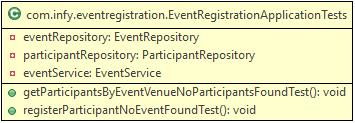
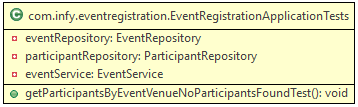
Updated code

diff --git a/QP/index.html b/QP/index.html
@@ -185,7 +185,7 @@
 			<strong>Project Structure provided:</strong>
 			<br><br>
 			<div>
-				<img class="center" style="width:647px; height:623px" src="./img/ArtefactTable.png">
+				<img class="center" style="width:647px; height:594px" src="./img/ArtifactTable.png">
 			</div>
 			<br><br>
 			<ol>
@@ -492,19 +492,6 @@
 											If it is provided, it should consist of only one word with letters of the English alphabet. If invalid, set <strong>Participant name should have only one word with only letters</strong> as the validation message
 										</li>
 										<li>
-											<strong>emailId:</strong><br>
-											If emailId is not provided then set <strong>Participant E-Mail ID is mandatory</strong> as the validation message<br>
-											If it is provided, it should start with alphanumeric characters and end with <strong>@infy.com</strong>. If invalid, set <strong>Participant E-Mail ID should start with alphanumeric characters and end with @infy.com</strong> as the validation message
-										</li>
-										<li>
-											<strong>gender:</strong><br>
-											If gender is not provided then set <strong>Participant gender is mandatory</strong> as the validation message<br>
-										</li>
-										<li>
-											<strong>registrationDate:</strong><br>
-											If registrationDate is not provided then set <strong>Registration date is mandatory</strong> as the validation message<br>
-										</li>
-										<li>
 											<strong>eventDTO:</strong><br>
 											If eventDTO is not provided then set <strong>Event is mandatory for registration</strong> as the validation message<br>
 										</li>										
@@ -522,91 +509,58 @@
 				</li>
 				<br>
 				<li>
-					<strong>Utility Classes</strong><br>
+					<strong>Utility Class</strong><br>					
+					<strong>com.infy.eventregistration.utility.ExceptionControllerAdvice.java</strong>
+					<br>
+					Annotate the following ExceptionControllerAdvice to log and handle all the exceptions of the API class,<br>
+					<div>
+						<img class="center" style="width:570px; height:123px" src="./img/ExceptionControllerAdvice.png">
+					</div>
+					<ul>
+						<li>
+							Inject Environment objects using appropriate annotation
+						</li>
+						<li>
+							The body of the methods have been implemented for you
+						</li>
+					</ul>
+					<br>
+					Method Description:<br><br>
 					<ol>
 						<li>
-							<strong>com.infy.eventregistration.utility.LoggingAspect.java</strong>
-							<br>
-							Implement the following LoggingAspect class to log all the exceptions from service class using Spring AOP<br>
-							<div>
-								<img class="center" style="width:371px; height:69px" src="./img/LoggingAspect.png">
-							</div>
+							<strong>ResponseEntity&lt;ErrorInfo&gt; eventRegistrationExceptionHandler(EventRegistrationException exception)</strong>
 							<ul>
 								<li>
-									Annotate this class to declare and use it as an AOP Aspect
+									This method is for handling <strong>EventRegistrationException</strong> exception
+								</li>
+								<li>
+									Add appropriate annotation to make this method as exception handler for the EventRegistrationException
 								</li>
 							</ul>
-							<br>
-							Method Description:<br><br>
-							<ol>
-								<li>
-									<strong>void logServiceException(EventRegistrationException exception)</strong>
-									<ul>
-										<li>
-											Annotate this method to declare it as an AfterThrowing advice
-										</li>
-										<li>
-											Log all the exceptions throwns from the <strong>com.infy.eventregistration.service.EventServiceImpl</strong> at error level
-										</li>
-									</ul>
-								</li>
-							</ol>
 						</li>
 						<br>
 						<li>
-							<strong>com.infy.eventregistration.utility.ExceptionControllerAdvice.java</strong>
-							<br>
-							Annotate the following ExceptionControllerAdvice to log and handle all the exceptions of the API class,<br>
-							<div>
-								<img class="center" style="width:570px; height:123px" src="./img/ExceptionControllerAdvice.png">
-							</div>
+							<strong>ResponseEntity&lt;ErrorInfo&gt; generalExceptionHandler(Exception exception)</strong>
 							<ul>
 								<li>
-									Inject Environment objects using appropriate annotation
+									This method is for handling general exceptions
 								</li>
 								<li>
-									The body of the methods have been implemented for you
+									Add appropriate annotation to make this method as exception handler for any type of exceptions
 								</li>
 							</ul>
-							<br>
-							Method Description:<br><br>
-							<ol>
+						</li>
+						<br>
+						<li>
+							<strong>ResponseEntity&lt;ErrorInfo&gt; validatorExceptionHandler(Exception exception)</strong>
+							<ul>
 								<li>
-									<strong>ResponseEntity&lt;ErrorInfo&gt; eventRegistrationExceptionHandler(EventRegistrationException exception)</strong>
-									<ul>
-										<li>
-											This method is for handling <strong>EventRegistrationException</strong> exception
-										</li>
-										<li>
-											Add appropriate annotation to make this method as exception handler for the EventRegistrationException
-										</li>
-									</ul>
+									This method is for handling <strong>MethodArgumentNotValidException</strong> and <strong>ConstraintViolationException</strong> exceptions
 								</li>
-								<br>
 								<li>
-									<strong>ResponseEntity&lt;ErrorInfo&gt; generalExceptionHandler(Exception exception)</strong>
-									<ul>
-										<li>
-											This method is for handling general exceptions
-										</li>
-										<li>
-											Add appropriate annotation to make this method as exception handler for any type of exceptions
-										</li>
-									</ul>
+									Add appropriate annotation to make this method as exception handler method for <strong>MethodArgumentNotValidException</strong> and <strong>ConstraintViolationException</strong> exceptions
 								</li>
-								<br>
-								<li>
-									<strong>ResponseEntity&lt;ErrorInfo&gt; validatorExceptionHandler(Exception exception)</strong>
-									<ul>
-										<li>
-											This method is for handling <strong>MethodArgumentNotValidException</strong> and <strong>ConstraintViolationException</strong> exceptions
-										</li>
-										<li>
-											Add appropriate annotation to make this method as exception handler method for <strong>MethodArgumentNotValidException</strong> and <strong>ConstraintViolationException</strong> exceptions
-										</li>
-									</ul>
-								</li>
-							</ol>
+							</ul>
 						</li>
 					</ol>
 				</li>				
@@ -617,7 +571,7 @@
 					<br>
 					Implement this class to test the methods of EventServiceImpl class using JUnit 5 and Mockito as per the class diagram given below,<br>
 					<div>
-						<img class="center" style="width:355px; height:123px" src="./img/EventRegistrationApplicationTests.png">
+						<img class="center" style="width:355px; height:123px" src="./img/EventRegistrationApplicationTests.png"> 
 					</div>
 					<ul>
 						<li>
@@ -641,17 +595,6 @@
 								</li>
 								<li>
 									Take any appropriate value for the venue to result in this exception being thrown
-								</li>
-							</ul>
-						</li>
-						<li>
-							<strong>registerParticipantNoEventFoundTest()</strong><br>
-							<ul>
-								<li>
-									This test case is to test for the exception when the the event to which the participant has to be registered is not available
-								</li>
-								<li>
-									Take appropriate values for the event name and the rest of the participant attributes to result in this exception being thrown
 								</li>
 							</ul>
 						</li>

diff --git a/To_Participants/iap_eventregistration/src/test/java/com/infy/eventregistration/EventRegistrationApplicationTests.java b/To_Participants/iap_eventregistration/src/test/java/com/infy/eventregistration/EventRegistrationApplicationTests.java
@@ -1,7 +1,5 @@
 package com.infy.eventregistration;
 
-import org.junit.jupiter.api.Test;
-
 import com.infy.eventregistration.repository.EventRepository;
 import com.infy.eventregistration.repository.ParticipantRepository;
 import com.infy.eventregistration.service.EventService;
@@ -19,8 +17,4 @@ public class EventRegistrationApplicationTests {
 		
 	}
 	
-	@Test
-	public void registerParticipantNoEventFoundTest() {
-		
-	}
 }

diff --git a/To_Participants/iap_eventregistration/src/main/java/com/infy/eventregistration/validator/EventValidator.java b/To_Participants/iap_eventregistration/src/main/java/com/infy/eventregistration/validator/EventValidator.java
@@ -7,7 +7,7 @@ import com.infy.eventregistration.exception.EventRegistrationException;
 
 public class EventValidator {
 	private EventValidator() {
-		
+
 	}
 	
 	public static void validateParticipant(ParticipantDTO participantDTO) throws EventRegistrationException {
